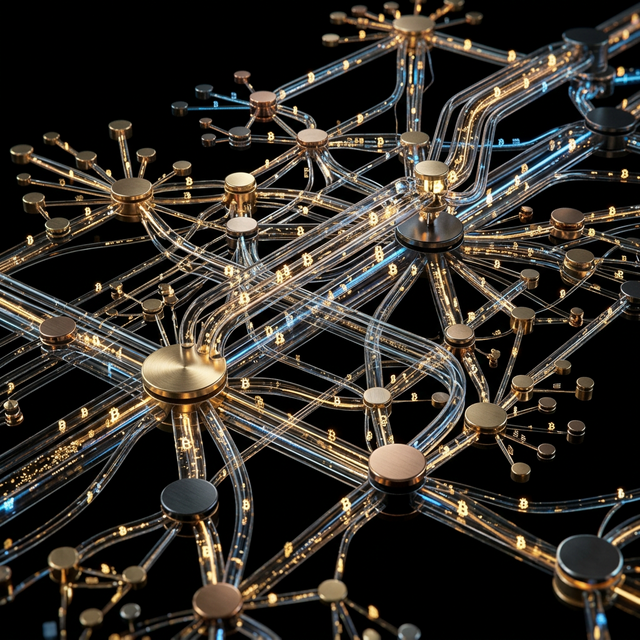
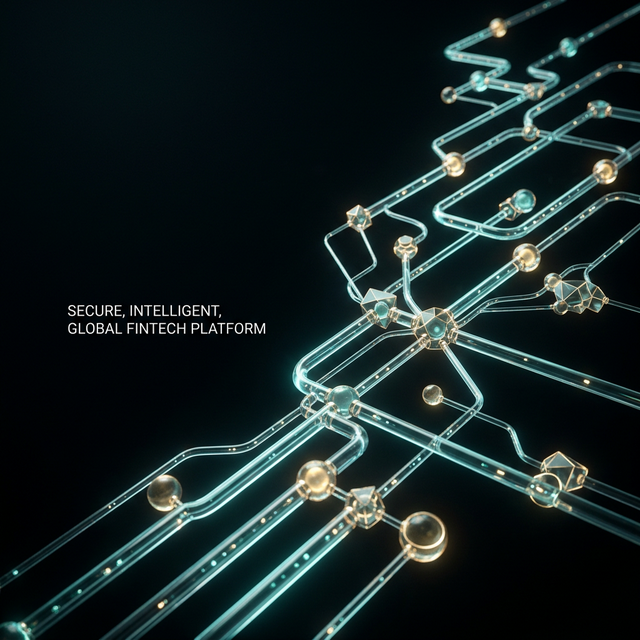
style: replace hero background with minimalist asset for better legibility

diff --git a/dist/index.html b/dist/index.html
@@ -8,8 +8,8 @@
     <link rel="preconnect" href="https://fonts.googleapis.com">
     <link rel="preconnect" href="https://fonts.gstatic.com" crossorigin>
     <link href="https://fonts.googleapis.com/css2?family=Inter:wght@400;500;600;700&family=JetBrains+Mono:wght@400;600&display=swap" rel="stylesheet">
-    <script type="module" crossorigin src="/assets/index-fXvbp0LG.js"></script>
-    <link rel="stylesheet" crossorigin href="/assets/index-BGkb_sQJ.css">
+    <script type="module" crossorigin src="/assets/index-M20lHkhx.js"></script>
+    <link rel="stylesheet" crossorigin href="/assets/index-CvtBvJMR.css">
   </head>
   <body>
     <div id="root"></div>
